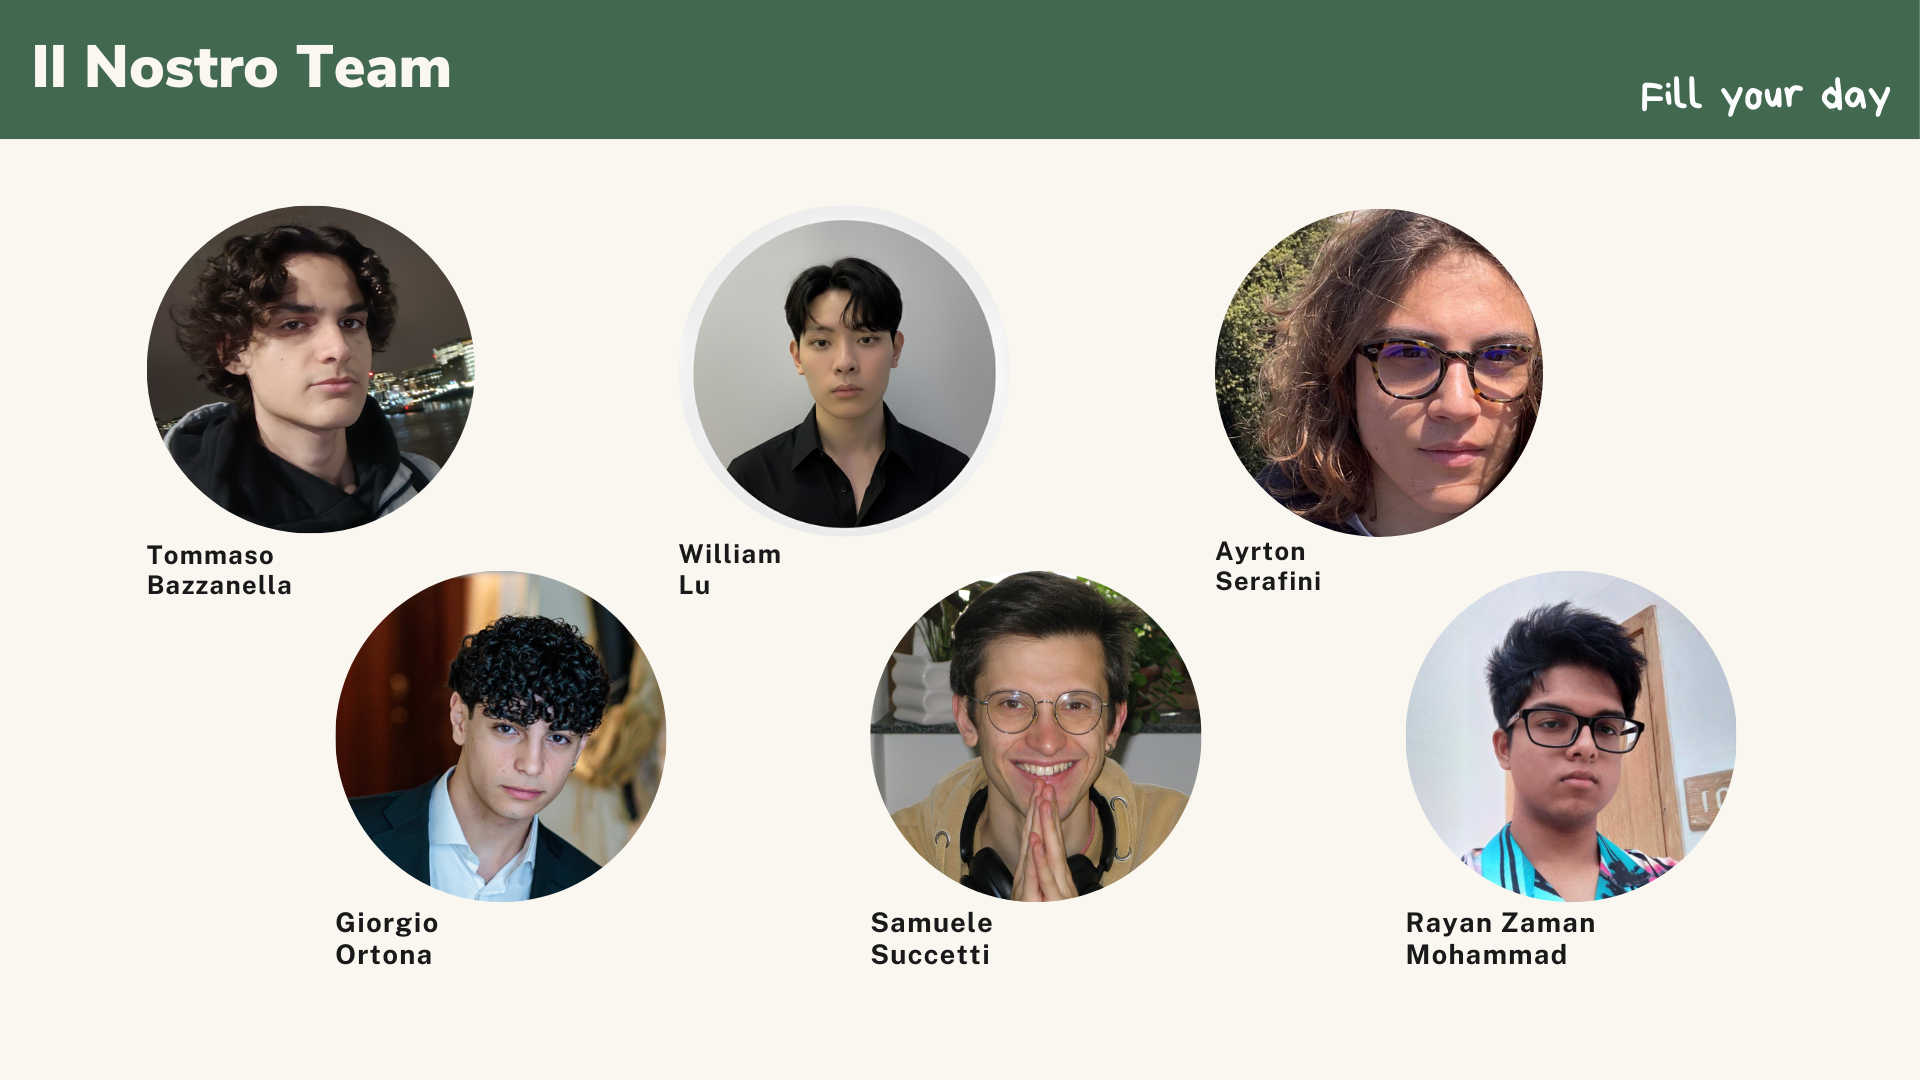
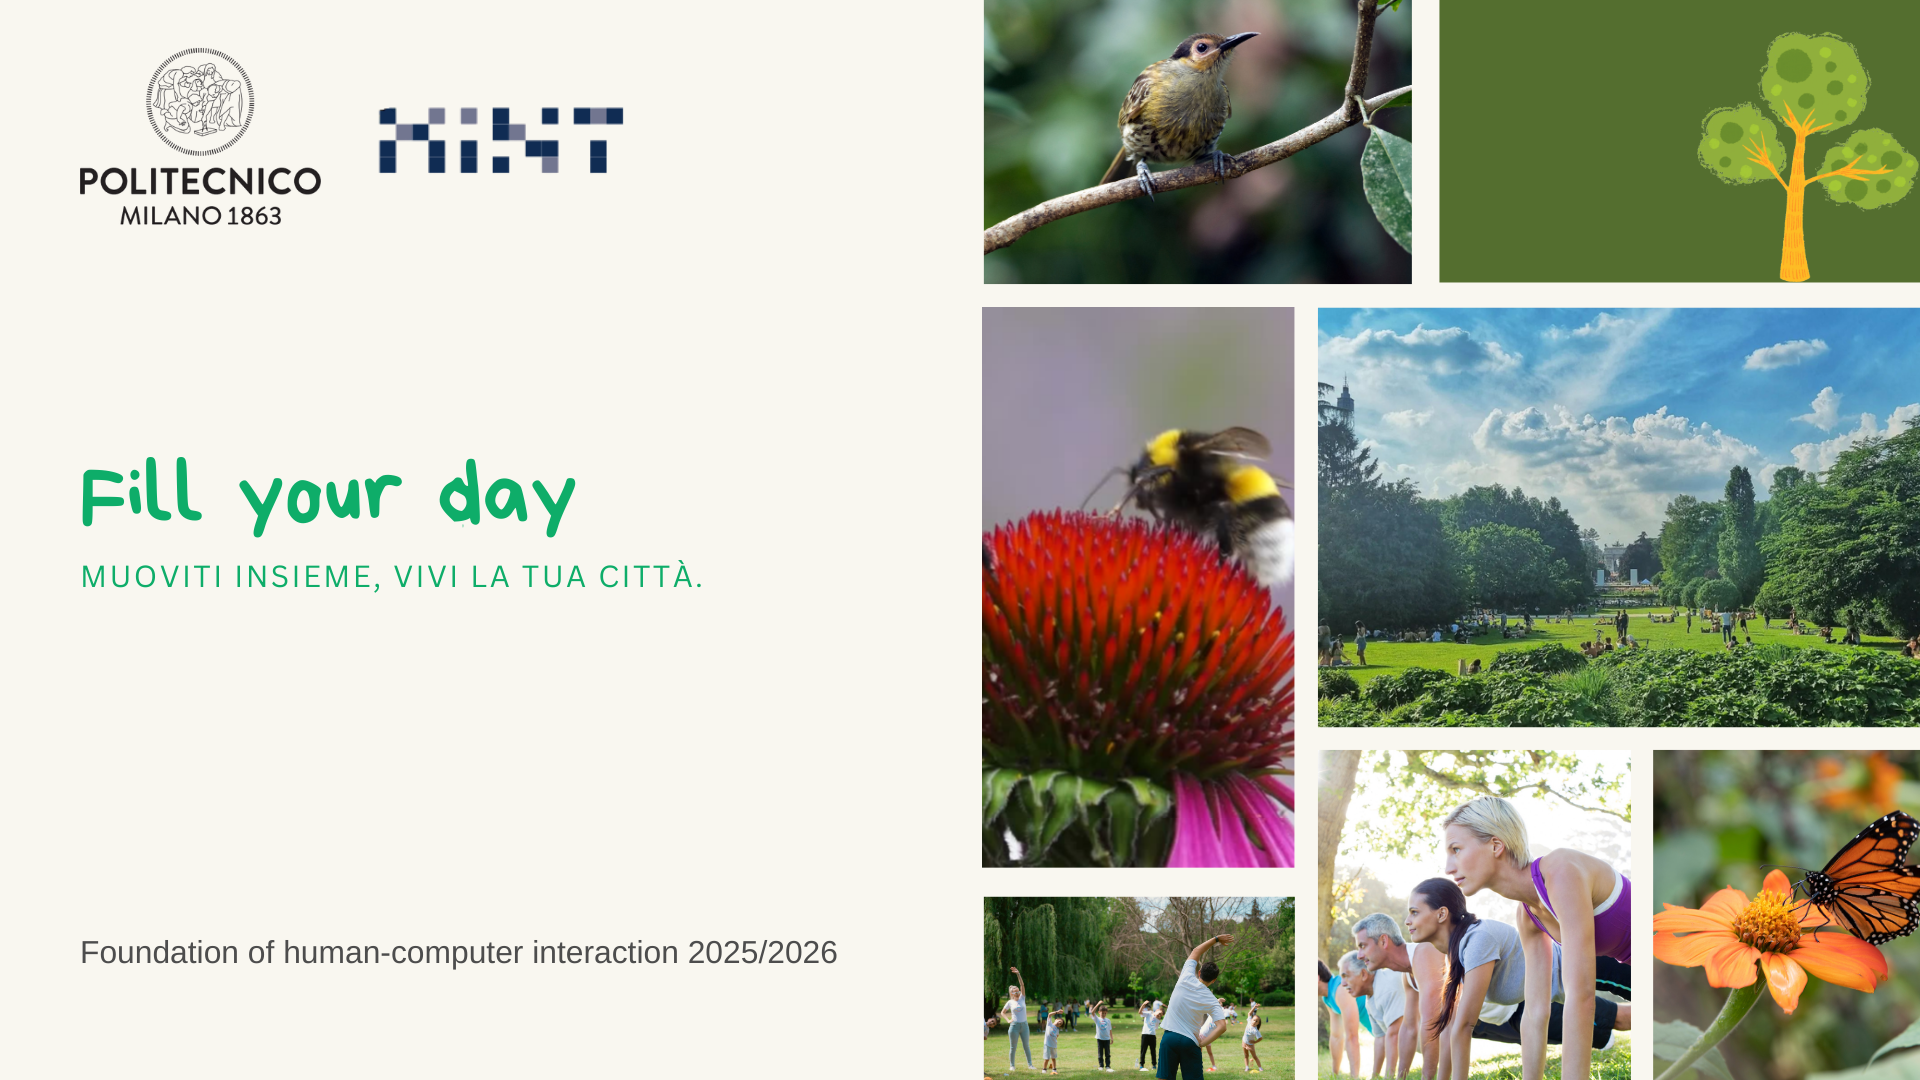
Updated Life@Park with better colors

diff --git a/src/pages/LifeAtPark/LifeAtPark.tsx b/src/pages/LifeAtPark/LifeAtPark.tsx
@@ -9,7 +9,6 @@ import styles from "./LifeAtPark.module.css";
 
 const LifeAtPark: React.FC = () => {
   const [isGalleryOpen, setIsGalleryOpen] = useState(false);
-  const [isReportOpen, setIsReportOpen] = useState(false);
 
   const teamMembers = [
     { name: "Tommaso Bazzanella", src: "assets/images/lifeAtPark/team/tommaso.png" },
@@ -100,23 +99,36 @@ const LifeAtPark: React.FC = () => {
         {isGalleryOpen && (
           <div className={styles.modalOverlay} onClick={() => setIsGalleryOpen(false)}>
             <div className={styles.modalContent} onClick={(e) => e.stopPropagation()}>
-              <button 
-                className={styles.closeButton} 
-                onClick={() => setIsGalleryOpen(false)}
-              >
-                ✕
-              </button>
+              <div className={styles.closeButtonContainer}>
+                <button 
+                  className={styles.closeButton} 
+                  onClick={() => setIsGalleryOpen(false)}
+                >
+                  ✕
+                </button>
+              </div>
               <ProjectGallery
                 images={[
-                  ...Array.from({ length: 63 }, (_, i) => `assets/images/lifeAtPark/ppt/${i + 1}.png`)
+                  ...Array.from({ length: 62 }, (_, i) => `assets/images/lifeAtPark/ppt/${i + 2}.png`)
                 ]}
               />
             </div>
           </div>
         )}
 
+        <div className={styles.divider}></div>
+
+        <div data-animation="grow" className={styles.slogan}>
+          FIND AND ENJOY YOUR PARK WITHOUT A WORRY
+        </div>
+        <div className={styles.subslogan} data-animation="fade-in">
+          by Fill your Day
+        </div>
+
+        <div className={styles.divider}></div>
+
         <div data-animation="grow" className={styles.center}>
-            try the prototype <img src="/assets/images/lifeAtPark/simplelogo.png" className={styles.image} /> now
+            try<img src="/assets/images/lifeAtPark/simplelogo.png" className={styles.image} />now
         </div>
         <a href="https://www.figma.com/proto/Hn1FlwLxKqbrMCmRIRjlF2/Prototipo-high-fidelity?node-id=0-1&t=Ry4JKZDZ5DIN4eQY-1" target="_blank" rel="noopener noreferrer">
           <div className={styles.prototypeImg}>
@@ -139,23 +151,25 @@ const LifeAtPark: React.FC = () => {
             </a>
           </div>
         </div>
+      </div>
 
-        <ProjectDescription
-          headTitle="ACADEMIC PROJECT FRAMEWORK"
-          sections={[
-            {
-              title: "PHASE 1: NEED FINDING & ANALYSIS",
-              label: "HW1 & HW2 DELIVERABLES",
-              description: `In alignment with FHCI requirements, our project began with rigorous need-finding and user research (HW1). We focused on thematic analysis to synthesize qualitative data, which led to the refinement of our project focus and the creation of detailed user personas and interaction scenarios (HW2).`
-            },
-            {
-              title: "PHASE 2: PROTOTYPING & EVALUATION",
-              label: "HW3 TO HW6 DELIVERABLES",
-              description: `Following the course roadmap, we moved from low-fidelity task analysis and storyboarding (HW3) to a medium-fidelity interactive prototype (HW4). The final stage involves expert-based heuristic evaluation (HW5) and high-fidelity usability testing to ensure the interface meets professional HCI standards before final delivery (HW6).`
-            },
-          ]}
-        />
+      <ProjectDescription
+        headTitle="ACADEMIC PROJECT FRAMEWORK"
+        sections={[
+          {
+            title: "PHASE 1: NEED FINDING & ANALYSIS",
+            label: "HW1 & HW2 DELIVERABLES",
+            description: `In alignment with FHCI requirements, our project began with rigorous need-finding and user research (HW1). We focused on thematic analysis to synthesize qualitative data, which led to the refinement of our project focus and the creation of detailed user personas and interaction scenarios (HW2).`
+          },
+          {
+            title: "PHASE 2: PROTOTYPING & EVALUATION",
+            label: "HW3 TO HW6 DELIVERABLES",
+            description: `Following the course roadmap, we moved from low-fidelity task analysis and storyboarding (HW3) to a medium-fidelity interactive prototype (HW4). The final stage involves expert-based heuristic evaluation (HW5) and high-fidelity usability testing to ensure the interface meets professional HCI standards before final delivery (HW6).`
+          },
+        ]}
+      />
 
+      <div id="deep-description-container">
         <div className={styles.scatteredContainer}>
           {features.map((feature, index) => (
             <a key={index} href={feature.link} target="_blank" rel="noopener noreferrer">
@@ -169,45 +183,6 @@ const LifeAtPark: React.FC = () => {
             </a>
           ))}
         </div>
-
-        <ProjectWideDescription
-          title="REPORT"
-          label="DETAILED DOCUMENTATION"
-          description=""
-        />
-        <div className={styles.galleryButtonContainer}>
-          <button 
-            className={styles.openGalleryButton} 
-            onClick={() => setIsReportOpen(true)}
-          >
-            View Report
-          </button>
-        </div>
-
-        {isReportOpen && (
-          <div className={styles.modalOverlay} onClick={() => setIsReportOpen(false)}>
-            <div className={styles.modalContent} onClick={(e) => e.stopPropagation()}>
-              <button 
-                className={styles.closeButton} 
-                onClick={() => setIsReportOpen(false)}
-              >
-                ✕
-              </button>
-              <ProjectGallery
-                images={[
-                  "assets/images/lifeAtPark/highfidelityreport/hfr1.png",
-                  "assets/images/lifeAtPark/highfidelityreport/hfr2.png",
-                  "assets/images/lifeAtPark/highfidelityreport/hfr3.png",
-                  "assets/images/lifeAtPark/highfidelityreport/hfr4.png",
-                  "assets/images/lifeAtPark/highfidelityreport/hfr5.png",
-                  "assets/images/lifeAtPark/highfidelityreport/hfr6.png",
-                  "assets/images/lifeAtPark/highfidelityreport/hfr7.png",
-                  "assets/images/lifeAtPark/highfidelityreport/hfr8.png",
-                ]}
-              />
-            </div>
-          </div>
-        )}
       </div>
 
       {/* <ProjectNavigation nextPath="/AirRoutes" /> */}

diff --git a/src/pages/LifeAtPark/LifeAtPark.module.css b/src/pages/LifeAtPark/LifeAtPark.module.css
@@ -2,8 +2,7 @@
     display: flex;
     justify-content: center;
     align-items: center;
-    padding-top: 3vh;
-    font-size: 1.2rem;
+    font-size: 1.3rem;
 }
 
 .image {
@@ -20,7 +19,7 @@
     padding-top: 5vh;
     padding-bottom: 5vh;
     font-size: 3rem;
-    color: rgb(122, 186, 122);
+    color: #c4c7c3;
 }
 
 .teamSection {
@@ -72,7 +71,7 @@
     align-items: center;
     justify-content: center;
     font-family: "Sohne";
-    font-size: 1.3rem;
+    font-size: 1rem;
     color: #f9f7f0;
     background: linear-gradient(to bottom, rgba(28, 28, 28, 0.6), rgba(28, 28, 28, 0.6));
     opacity: 0;
@@ -186,27 +185,32 @@
 .galleryButtonContainer {
     display: flex;
     justify-content: center;
-    padding: 3vh 0;
+    padding-bottom: 5vh;
 }
 
 .openGalleryButton {
-    background: rgb(122, 186, 122);
+    margin-top: calc(env(safe-area-inset-top));
+    background: rgba(255, 255, 255, 0.15);
+    backdrop-filter: blur(10px);
+    border: 1px solid rgba(255, 255, 255, 0.2);
     color: #f9f7f0;
     font-family: "Sohne";
-    font-weight: 600;
-    font-size: 1.2rem;
-    padding: 15px 40px;
+    font-size: 2vh;
+    padding: 2vh 3vh;
     border: none;
-    border-radius: 30px;
+    border-radius: 30vh;
     cursor: pointer;
     transition: all 0.3s ease;
-    box-shadow: 0 4px 15px rgba(122, 186, 122, 0.3);
+    box-shadow: 0 4px 15px rgba(148, 151, 148, 0.2);
 }
 
 .openGalleryButton:hover {
-    background: rgb(100, 160, 100);
+    margin-top: calc(env(safe-area-inset-top));
+    background: rgba(100, 160, 100, 0.5);
+    backdrop-filter: blur(10px);
+    border: 1px solid rgba(255, 255, 255, 0.2);
     transform: translateY(-2px);
-    box-shadow: 0 6px 20px rgba(122, 186, 122, 0.4);
+    box-shadow: 0 4px 15px rgba(192, 195, 192, 0.2);
 }
 
 .modalOverlay {
@@ -225,29 +229,40 @@
 }
 
 .modalContent {
+    margin-top: calc(env(safe-area-inset-top));
     background: rgba(255, 255, 255, 0.1);
     backdrop-filter: blur(10px);
     border: 1px solid rgba(255, 255, 255, 0.2);
     padding: 30px;
     max-width: 90vw;
-    max-height: 90vh;
+    max-height: 87vh;
     overflow-y: auto;
     position: relative;
     box-shadow: 0 10px 50px rgba(0, 0, 0, 0.3);
 }
 
-.closeButton {
+.closeButtonContainer {
+    width: 100%;
+    height: auto;
     position: sticky;
-    top: 10px;
-    right: 10px;
+    top: 0;
+}
+
+.closeButton {
+    margin-top: calc(env(safe-area-inset-top));
+    background: rgba(255, 255, 255, 0.15);
+    backdrop-filter: blur(10px);
+    border: 1px solid rgba(255, 255, 255, 0.2);
+    right: -15px;
+    top: -15px;
+    position: absolute;
     float: right;
-    background: rgb(122, 186, 122);
     color: #f9f7f0;
     border: none;
     border-radius: 50%;
-    width: 40px;
-    height: 40px;
-    font-size: 1.5rem;
+    width: 35px;
+    height: 35px;
+    font-size: 1rem;
     cursor: pointer;
     transition: all 0.3s ease;
     z-index: 10;
@@ -258,6 +273,58 @@
 }
 
 .closeButton:hover {
-    background: rgb(100, 160, 100);
+    background: rgba(100, 160, 100, 0.5);
     transform: rotate(90deg);
+}
+
+.slogan {
+    position: relative;
+    display: inline-block;
+    line-height: 1;
+    font-size: 8vw;
+    font-weight: bold;
+    color: #c4c7c3;
+    transition: transform 0.35s ease, color 0.35s ease, text-shadow 0.35s ease;
+}
+
+.slogan::after {
+    content: "";
+    position: absolute;
+    inset: 0 auto auto -4vw;
+    width: 108%;
+    height: 108%;
+    background: radial-gradient(circle at 30% 50%, rgba(141, 180, 144, 0.35), transparent 55%),
+                radial-gradient(circle at 70% 60%, rgba(55, 142, 74, 0.4), transparent 60%);
+    filter: blur(8px);
+    opacity: 0;
+    transform: translateY(10px) scale(0.96);
+    transition: opacity 0.35s ease, transform 0.35s ease;
+    pointer-events: none;
+    z-index: -1;
+}
+
+.slogan:hover {
+    color: #f3cfc6;
+    transform: translateY(-6px) rotate(-1.1deg) scale(1.02);
+    text-shadow: 0 14px 28px rgba(0, 0, 0, 0.18);
+}
+
+.slogan:hover::after {
+    opacity: 1;
+    transform: translateY(2px) scale(1.05);
+}
+
+.subslogan {
+    font-size: 2vw;
+    text-align: end;
+    margin-left: 4vh;
+    margin-right: 5%;
+    color: #ffffff;
+}
+
+.divider {
+    width: 100%;
+    height: 2px;
+    background-color: #bbc6b7;
+    margin: 5vh auto;
 }
